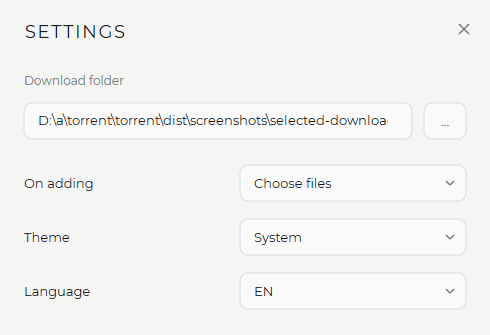
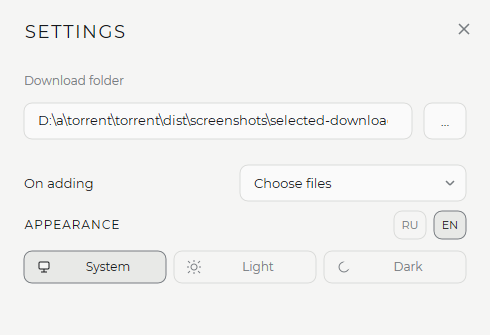
Refresh appearance controls and clean-header verification screenshots

diff --git a/docs/CONNECT-UI-SYSTEM.md b/docs/CONNECT-UI-SYSTEM.md
@@ -25,7 +25,7 @@ The Montserrat TTF is byte-for-byte unchanged. The invariant check also protects
 - Contrasting monochrome primary actions, neutral secondary actions, subtle press/hover with 140ms transitions respecting Windows reduced-motion settings.
 - Four-pixel monochrome progress; existing checkbox semantics for file selection. Shared switch/slider primitives are available but no unused controls are shown in Torrent.
 - Compact custom runtime error notices with a real error indicator and the same modal action styling. Startup failures before the application window exists retain a native emergency fallback; standard OS file/folder pickers remain OS dialogs.
-- System/Light/Dark and RU/EN inside settings. System mode reads Windows AppsUseLightTheme and responds to theme notifications. Old saved Light=0 and Dark=1 settings keep their meaning; System=2 is added without changing the file structure.
+- CONNECT-style System/Light/Dark segments and compact RU/EN buttons inside settings. System mode reads Windows AppsUseLightTheme and responds to theme notifications. Old saved Light=0 and Dark=1 settings keep their meaning; System=2 is added without changing the file structure.
 
 ## Approved settings icon
 
@@ -38,3 +38,5 @@ The renderer compiles its cubic curves, elliptical arcs, even-odd opening and ce
 Windows CI builds the client and installer, checks the preserved design tokens, runs engine and UI regressions, and captures both themes. UI checks cover caption/maximize removal, outer dimensions, header hit testing, minimize/settings actions, settings persistence, System theme updates without modifying Windows preferences, RU/EN, custom notices, torrent selection and keyboard actions.
 
 Physical monitor/DPI transitions and installation over the real user profile require separate manual verification. Screenshot PR #1 is untouched; this implementation is isolated in Torrent's own PR.
+
+Version 0.1.10 removes hover tiles from all header actions, keeps the settings close glyph untiled, and clears titlebar focus after dismissing dialogs. Keyboard navigation retains focus outlines while navigating; pointer clicks leave no outline behind. Appearance buttons apply immediately without opening menus.
